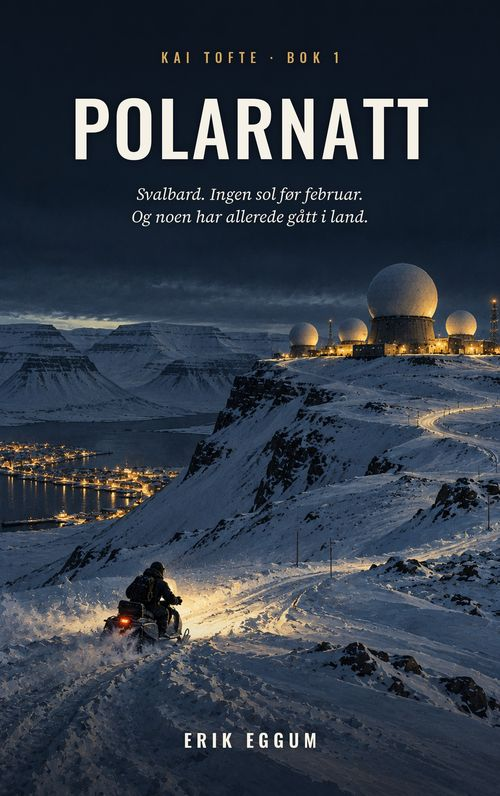
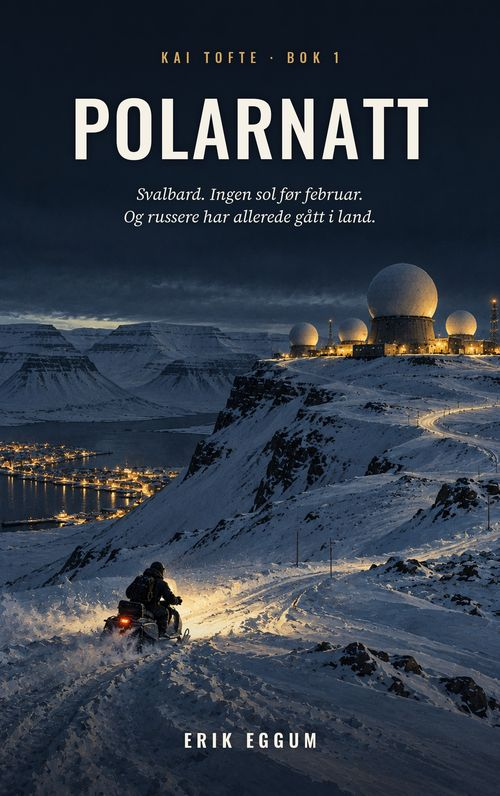
Polarnatt: nytt omslag, lanseres i november
Claude-Session: https://claude.ai/code/session_018nZTs8KGFtN4vELxYsvsov

Changed region(s): [[0.24, 0.2412, 0.75, 0.3015]]

diff --git a/index.html b/index.html
@@ -457,9 +457,9 @@ const BOKER = [
     serie: "kai-tofte",
     nr: 1,
     tittel: "Polarnatt",
-    undertittel: "Svalbard. Ingen sol før februar. Og noen har allerede gått i land.",
+    undertittel: "Svalbard. Ingen sol før februar. Og russere har allerede gått i land.",
     status: "kommer",
-    lanseres: "Desember 2026",
+    lanseres: "November 2026",
     omslag: "img/polarnatt.jpg",
     kort: "Desember på Svalbard. Sola er borte, og en morgen er Barentsburg tatt av russiske menn uten flagg og uten uniform. Moskva sier at det ikke er dem. Oslo kan ikke svare med våpen uten å starte en krig. Kai Tofte blir fløyet nordover med dronene sine for å se det ingen andre kan se i mørket, og må samarbeide med Ingrid Sandvik i E-tjenesten, kvinnen som en gang avfeide bildene hans. Samtidig lekker noen i Oslo. Hver beskjed regjeringen sender, er kjent i Moskva før den er framme.",
   },
